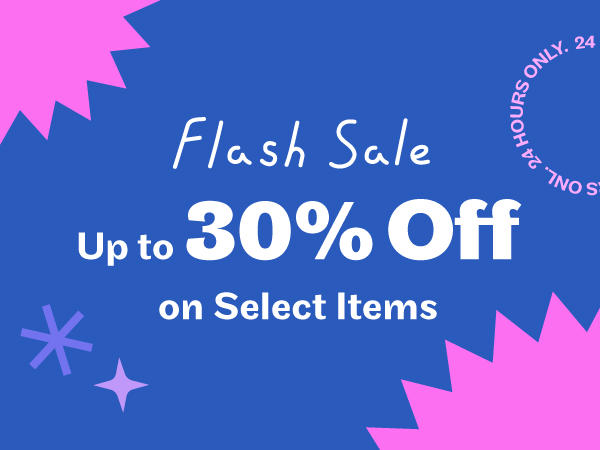
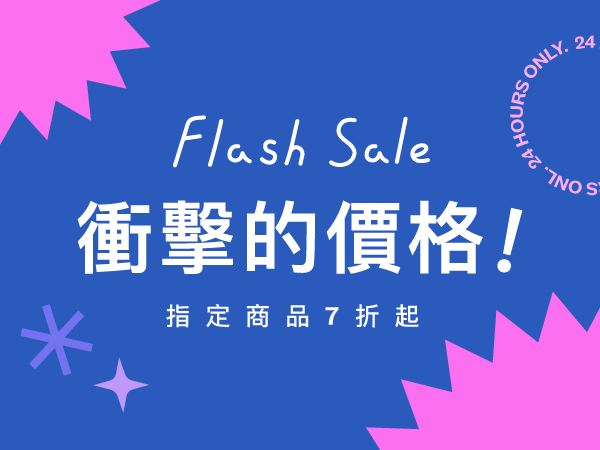
BN eng

diff --git a/en/index.html b/en/index.html
@@ -88,24 +88,24 @@
 
             <div><a href="">
                     <picture>
-                        <source media="(min-width: 480px)" srcset="../img/img_header_bannerV2@2x.png" /><img
-                            src="../img/img_header_bannerV2.png" alt="小確幸" />
+                        <source media="(min-width: 480px)" srcset="../img/img_header_bannerV2@2x_en.png" /><img
+                            src="../img/img_header_bannerV2_en.png" alt="小確幸" />
                     </picture>
                 </a>
             </div>
 
             <div><a href="./products/poster.html">
                     <picture>
-                        <source media="(min-width: 480px)" srcset="../img/img_header_bannerV1@2x.png" /><img
-                            src="../img/img_header_bannerV1.png" alt="窗外有藍天海報" />
+                        <source media="(min-width: 480px)" srcset="../img/img_header_bannerV1@2x_en.png" /><img
+                            src="../img/img_header_bannerV1_en.png" alt="窗外有藍天海報" />
                     </picture>
                 </a>
             </div>
 
             <div>
                 <picture>
-                    <source media="(min-width: 480px)" srcset="../img/img_header_bannerV3@2x.png" /><img
-                        src="../img/img_header_bannerV3.png" alt="3hr出貨" />
+                    <source media="(min-width: 480px)" srcset="../img/img_header_bannerV3@2x_en.png" /><img
+                        src="../img/img_header_bannerV3_en.png" alt="3hr出貨" />
                 </picture>
             </div>
         </div>
@@ -325,14 +325,14 @@
             <div class="row">
                 <div class="column second-hand-image-box normal-hover">
                     <picture>
-                        <source media="(max-width: 979px)" srcset="../img/img_home_banner_furniture_mb.png" />
-                        <img src="../img/img_home_banner_furniture.png" alt="二手家具" />
+                        <source media="(max-width: 979px)" srcset="../img/img_home_banner_furniture_mb_en.png" />
+                        <img src="../img/img_home_banner_furniture_en.png" alt="二手家具" />
                     </picture>
                 </div>
                 <div class="column second-hand-image-box normal-hover">
                     <picture>
-                        <source media="(max-width: 979px)" srcset="../img/img_home_banner_appliances_mb.png">
-                        <img src="../img/img_home_banner_appliances.png" alt="二手電器" />
+                        <source media="(max-width: 979px)" srcset="../img/img_home_banner_appliances_mb_en.png">
+                        <img src="../img/img_home_banner_appliances_en.png" alt="二手電器" />
                     </picture>
                 </div>
             </div>

diff --git a/en/sale.html b/en/sale.html
@@ -65,8 +65,8 @@
 
         <div class="sale-banner">
             <picture>
-                <source media="(min-width: 480px)" srcset="../img/img_sale_banner.png" /><img
-                    src="../img/img_sale_banner_mb.png" alt="Sale up to 30% Off" />
+                <source media="(min-width: 480px)" srcset="../img/img_sale_banner_en.png" /><img
+                    src="../img/img_sale_banner_mb_en.png" alt="Sale up to 30% Off" />
             </picture>
         </div>
 
